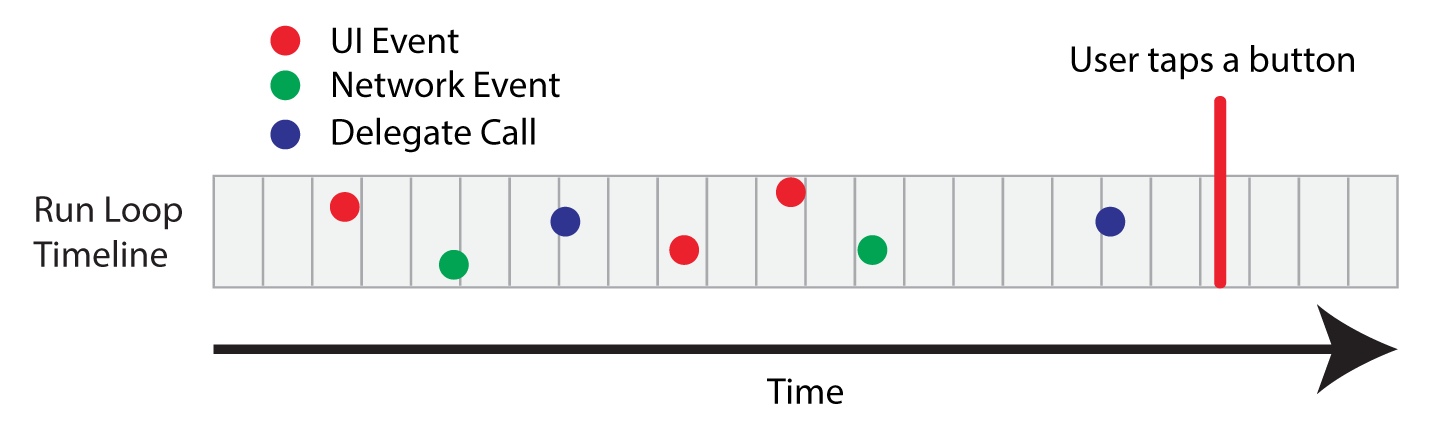
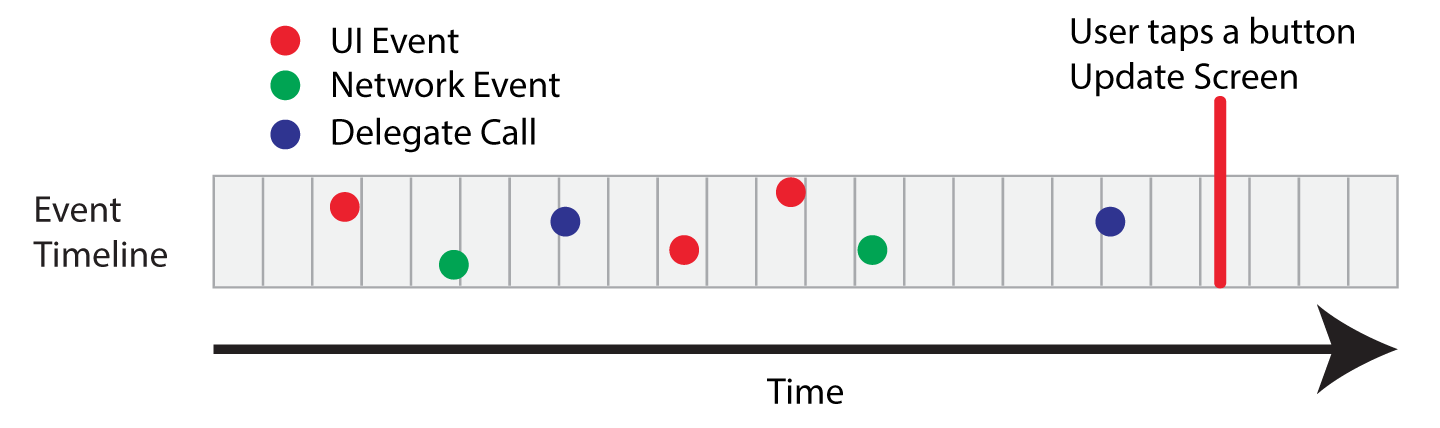
More progress on the 'Why RAC' blog

Changed region(s): [[0.7188, 0.0607, 0.9375, 0.2126], [0.0312, 0.4556, 0.125, 0.5164]]

diff --git a/Why Reactive Cocoa.md b/Why Reactive Cocoa.md
@@ -30,24 +30,24 @@ So what does Josh mean when he says it's all Inputs and Outputs? The entirety of
 
 This is just a sampling of the different kinds of inputs we deal with daily. They can be as simple as "Hey this happened", or be accompanied by a lot of detail about the event (the user scrolled exactly this much). There are certainly reasons for all the different patterns above, not the least of which is the evolution of our craft and tools; but when it comes down to it they are *ALL just telling us some event happened*, and sometimes providing information about that event.
 
-Outputs can be anything, but some typical ones include updating a value on a server, storing something in core data; or most importantly, and most typically, **updating the UI**.
+Outputs can be anything, but a few typical examples include updating a value on a server, storing something in core data; or most importantly, and most typically, **updating the UI**.
 
-The problem is that we rarely (read: never) are updating our output based on *just one input*. I can't put it any better than the way Josh stated it: 
+The problem is that we rarely (read: never) are updating our output based on *just one input/event*. I can't put it any better than the way Josh stated it: 
 >"To put it another way, the output at any one time is the result of combining all inputs. The output is a function of all inputs up to that time."
 
-## Paper Tape Computing (Linear Execution)
-The issue here is one of **time**. Time is a pain in the keister (keeping this G rated). Basically, we program in linear fashion, never wandering all that far from the way things were done on [paper tape computers](https://www.youtube.com/watch?v=uqyVgrplrno). We have an understanding that there is a run loop, and that our code is going to be placed on a time line and executed in order (ignoring multiple processes for the sake of argument.) Even our awesome block callbacks and delegates are just giving us another snippet of time on the time line where we can execute code, as shown in this beautiful (and super simplified) diagram.
+## Paper Tape Computing (Linear Programming)
+The issue here is one of **time**. Time is a pain in the keister. Basically, we program in linear fashion, never wandering all that far from the way things were done on [paper tape computers](https://www.youtube.com/watch?v=uqyVgrplrno). We have an understanding that there is a run loop, and that our code is going to be placed on a time line and executed in order (ignoring multiple processes for the sake of argument.) Even our awesome block callbacks and delegates are just giving us another snippet of time on the time line where we can execute code, as shown in this beautiful (and super simplified) diagram.
 
 ![Taking turns on the paper tape computer][code-timeline]
 
-The problem is that events are occuring *as time is passing*. When any one of those events occurs, We may need to generate output. To do that we need to combine the new information from this event with all the information from past relevant events that might affect my new output. (Let's say we're updating the screen.)
+If all these events (inputs) would just occur at the exact same time our lives would be much easier. The problem is that events are occuring *as time is passing*. When any one of those events occurs, we may need to generate output. To do that, we need to combine the new information from this event with all the information from past relevant, but divorced events that might affect our new output. (In this instance we're updating the screen.)
 
 ![Events over time][events]
 
 But how do we do that? There's no elegant mechanism provided for accessing past events, or combining the results of a bunch of events. We are left to our own devices to come up with a solution. What's the solution we all are immediately trained to jump to?
 
 ##STATE
-State is what makes our job as programmers VERY hard sometimes. To be honest, I didn't recognize this at all. That is to say, I knew when I had lots of different variables affecting my UI that it really became hard to manage; but I didn't recognize it in the philisophical, definable way. It's so engrained in me that I just thought it was part of the deal with programming, and that maybe I wasn't the best programmer for constantly struggling with it. 
+State is what makes our job as programmers VERY hard sometimes. To be honest, I didn't recognize this at all. That is to say, I knew when I had lots of different events and variables affecting my UI that it became really hard to manage; but I didn't recognize it in a philisophical, definable way. It's so engrained in me that I just thought it was part of the deal with programming, and that maybe I wasn't the best programmer for constantly struggling with it. 
 
 This is not the case. **Everyone sucks at managing state.** It is the source of an endless amount of bugs and blank stares. "I understand WHY it crashed. I just don't understand how the user could have possibly gotten it in that state." &#8592; Programmer adds another state check.
 
@@ -56,10 +56,7 @@ So what is state? Are we just talking about enums and state machines like `TCQue
 ``` Objective-C
 @interface TCQuestionDetailViewController ()
 @property (nonatomic, strong) TCQuestion *question;
-@property (nonatomic, strong) NSArray *answers;
-@property (nonatomic, strong) TCUser *me;
-@property (nonatomic, assign) NSInteger commentPage;
-@property (nonatomic, strong) NSMutableOrderedSet *comments;
+// .. even more properties
 @property (nonatomic, assign) TCQuestionDetailViewControllerState state;
 @property (nonatomic, assign) BOOL didAnswerQuestion;
 @property (nonatomic, assign) BOOL questionFullyLoaded;
@@ -77,18 +74,52 @@ So what is state? Are we just talking about enums and state machines like `TCQue
 That should have made you cringe. I'm SURE you've seen (and written) similar code. If not you are either lying, or a WAY better programmer than I am. See UI's are often very complex in code even when they appear simple to the user. In fact, the very reason a user may LOVE your app is the amount of power it delivers in an extremely simple interface.
 > Value is created by swallowing complexity for the user.  *- CEO of my first startup*
 
-The problem here is that every time you add another state, you are increasing the possible number of combinations in an **EXPONENTIAL** manner. And that's even assuming your states are just BOOLs. I had an "aha!" moment when I saw a slide in a talk by [Justin Spahr-Summers](http://twitter.comjspahrsummers).
+The problem here is that every time you add another state, you are increasing the possible number of combinations in an **EXPONENTIAL** manner. And that's assuming your states are just BOOLs. I had an "aha!" moment when I saw a slide in a talk by [Justin Spahr-Summers](http://twitter.comjspahrsummers).
 
 ![State combinations increasing exponentially][state]
 
-I looked at my code, like the interface above, and realized I was giving myself an unbelievably difficult task, requiring super-geek like abilities to pull off (to the tune of 4000+ different combinations I needed to handle if they were all relevant to the output). 
+I looked at my code, like the interface above, and realized I was giving myself an unbelievably difficult task, requiring super-geek like abilities to pull off (to the tune of 4000+ different combinations I needed to handle if they were all relevant to the output). Obviously this is HIGHLY error prone.
 
-To make matters worse, this type of code will often produce UI only bugs that are incredibly hard, if not impossible, to identify in any automated way. After a few times through this wringer, we've probably all ended up writing centralized update methods like this that end up littered throughout our code: `updateViewCommentStatus` `updateChangeAnswerButtonText`. Any time we add another event, we make sure it's updating all the appropriate states and throw in the appropriate centralized update methods.
+To make matters worse, this type of code will often produce UI only bugs that are incredibly hard, if not impossible, to identify in any automated way. After a few times through this wringer, we've probably all ended up writing centralized update methods like this that end up littered throughout our code: `updateViewCommentStatus` `updateChangeAnswerButtonText`. Any time we add another event (input), we make sure it's updating all the appropriate states and throw in the appropriate centralized update methods. Now our previously clean looking timeline is getting unmanagable:
 
+![State change timeline][state-change]
 
+How can we possibly keep this all straight in our heads? We are expending an awful lot of brain power dealing with the consequences of this linear code execution thing, this modern version of the paper tape computer. Despite the power of computers today, we are still doing a heck of a lot of work on their behalf. We're programming to the way the computer hardware works; to the way that the run loop is creating a timeline and the cpu is processing bits in a single file. We are architecting our code around low level implementation details of computing. What if we were to harness the power of the computer, let it do more of the work, and allow ourselves to think and design our apps in a more sane manner?
 
+What if we abstract away the whole pesky notion of time and let the computer track state over time for us? Seems like something the computer would be good at.
+
+## Non-Linear Programming
+
+I'm not a classically trained, CS Degree wielding programmer. I did a lot of multimedia before ending up programming for my day job. It has it's plusses and minuses, but it's allowed me some outside perspective on things. For instance I've seen this whole non-linear concept play out a couple times. 
+
+Photoshop didn't used to have non destructive editing. You would make your edits (inputs) over time and your only recourse for change was your undo history. When computers became powerful enough, the timeline intrinsic to the linear editing process was replaced by a lot of non-destructive layers and filters. You didn't have to worry about the order you did things (as much). The computer handled combining all the inputs (filters, masks, etc) for you as long as you leveraged them properly.
+
+The same thing occured with video editing and compositing. Initially it was done with destructive edits, where you were literally altering the original video file and could only go back so far as undo allowed (or to your last backup). Then the whole process went non-linear and we were given non-destructive filters and the ability to adjust your edits an infinite amount of times.
+
+This change to non-linear tools allow for amazing levels of flexibility and creativity, giving the artists several orders of magnitude more power to realize their visions.
+
+Even auto-layout is a great example of moving towards a non-linear (and reactive) approach. Instead of waiting for certain events to occur, then checking the status of a bunch of views and manually updating frames, you just **describe** what the relationships between all the views are ahead of time and let the computer do the work.
+
+##Compositional Event System
+
+Recently [Jon Sterling](https://twitter.com/jonsterling) mentioned the term "Compositional Event System" in a twittergument about the term used to define RAC and similar styles of programming. I think it fits really well. Much like the shifts in the multimedia tools above, what we really want to do is remove (for the most part) the need to deal with the timeline of when events (inputs) happened, and therefor the need to manually keep track of them with state. We want to make the computer do that for us.
+
+We don't care WHEN events (inputs) happen. We want to get away from that crazy timeline we were managing above, to a system where we just describe up front what happens to our UI (output) whenever a certain combination of inputs occur. We want to define the relationship between events (inputs) and their subsequent outputs, and then let the computer **react** appropriately whenever those events occur. Yes state still exists somewhere in this event system, but it's abstracted away from our day to day work (mostly).
+
+When you think about it, this concept is actually very simple, and not entirely foreign. Inputs and outputs:
+
+![A home-made 4-bit computer logic board with lights][logic-board]
+[Original site](http://www.waitingforfriday.com/index.php/4-Bit_Computer)
+
+##ReactiveCocoa
+
+So how does ReactiveCocoa abstract away the timeline for us and step into the world of Non-Linear Programming? It does this by wrapping all those patterns of input from above in one unified interface called a Signal. Then it gives us operators so that we can combine, split, and filter those events.
+
+...
 
 
 [code-timeline]: images/code-timeline.png "Taking turns on the paper tape computer"
 [events]: images/events.png "We're all just dots on this groovy timeline, man."
 [state]: images/state.png "Alright. Shut it down. We blew it."
+[state-change]: images/state-change.png "Take Illustrator away from this guy."
+[logic-board]: images/logic-board.jpg "Man that seems satisfying."
